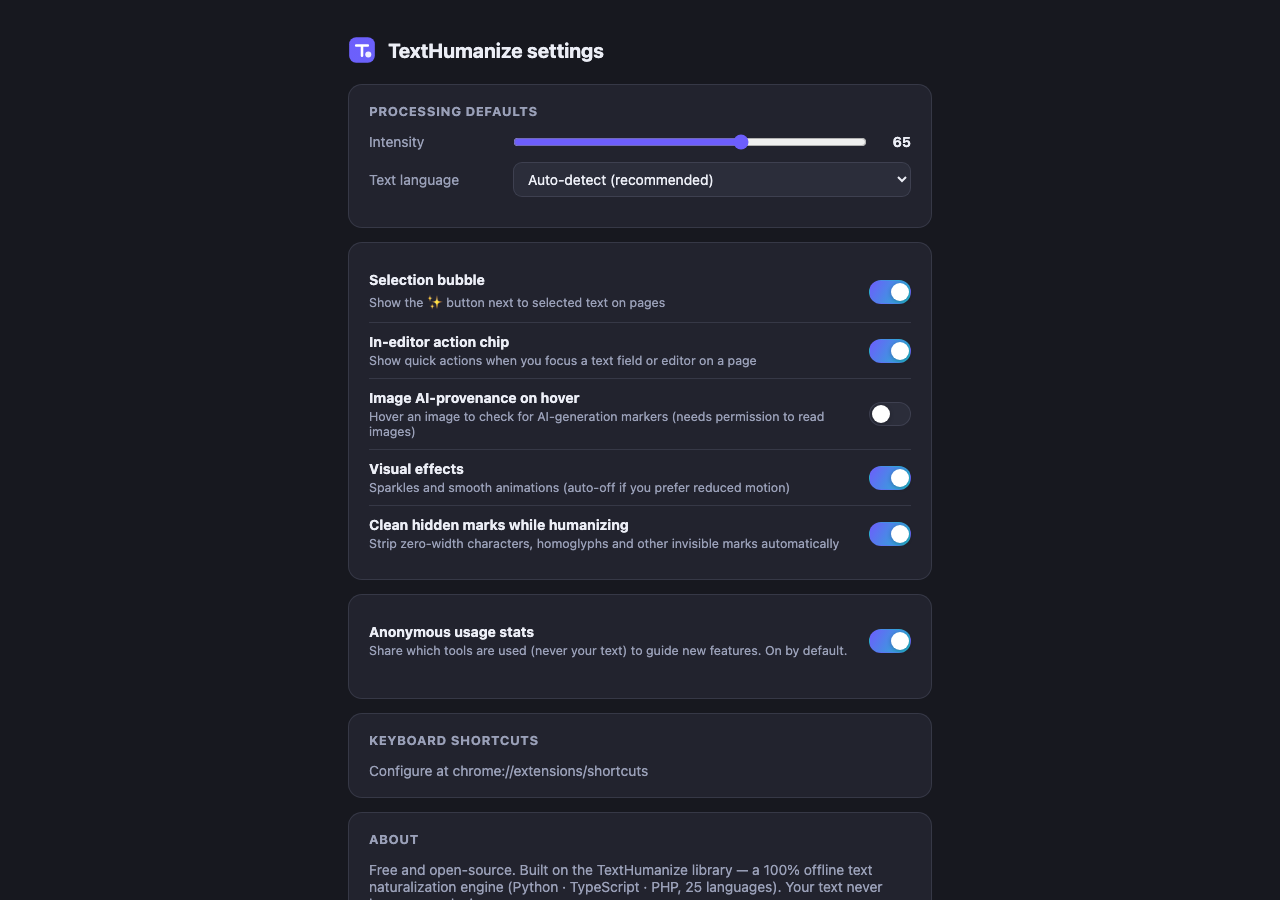
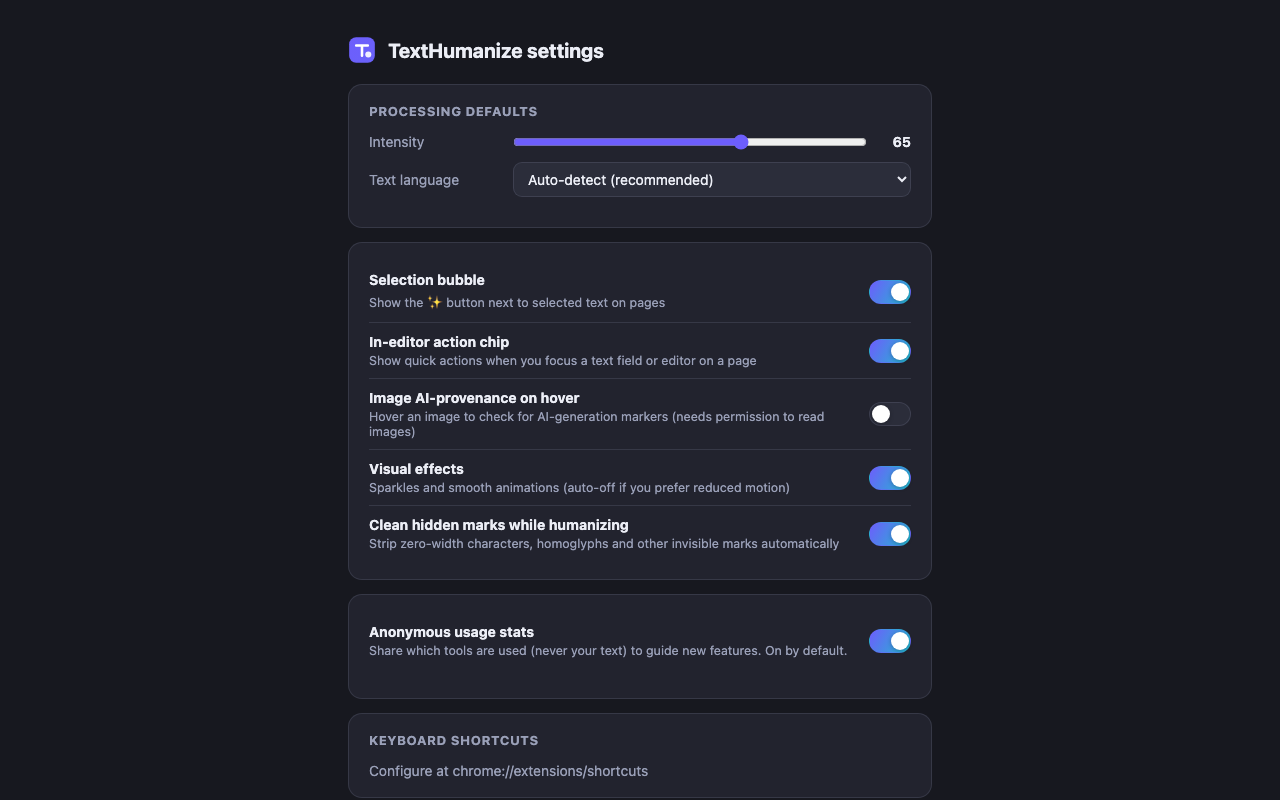
store: regenerate screenshots at exactly 1280x800 (CWS requirement); add shot scroll param

diff --git a/popup/popup.js b/popup/popup.js
@@ -321,6 +321,11 @@ $('#open-options').addEventListener('click', () => {
 updateCount();
 if (input.value) { updateLang(); }
 const mode = params.get('mode');
-if (['humanize', 'check', 'tone', 'readability', 'paraphrase'].includes(mode) && input.value) runText(mode);
+if (['humanize', 'check', 'tone', 'readability', 'paraphrase'].includes(mode) && input.value) {
+  runText(mode);
+  if (params.get('shot')) {
+    setTimeout(() => document.querySelector('#result')?.scrollIntoView({ block: 'center' }), 1400);
+  }
+}
 if (params.get('imgsrc')) { /* image via context menu handled by media tab in future */ }
 input.focus();